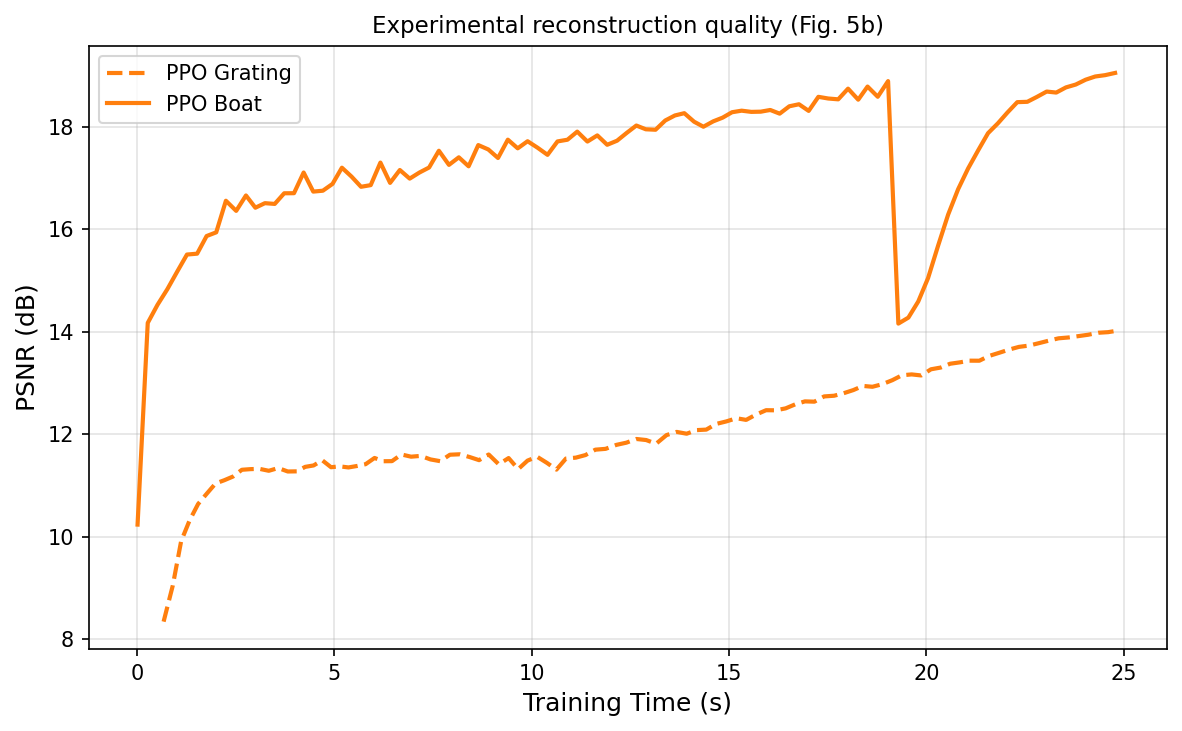
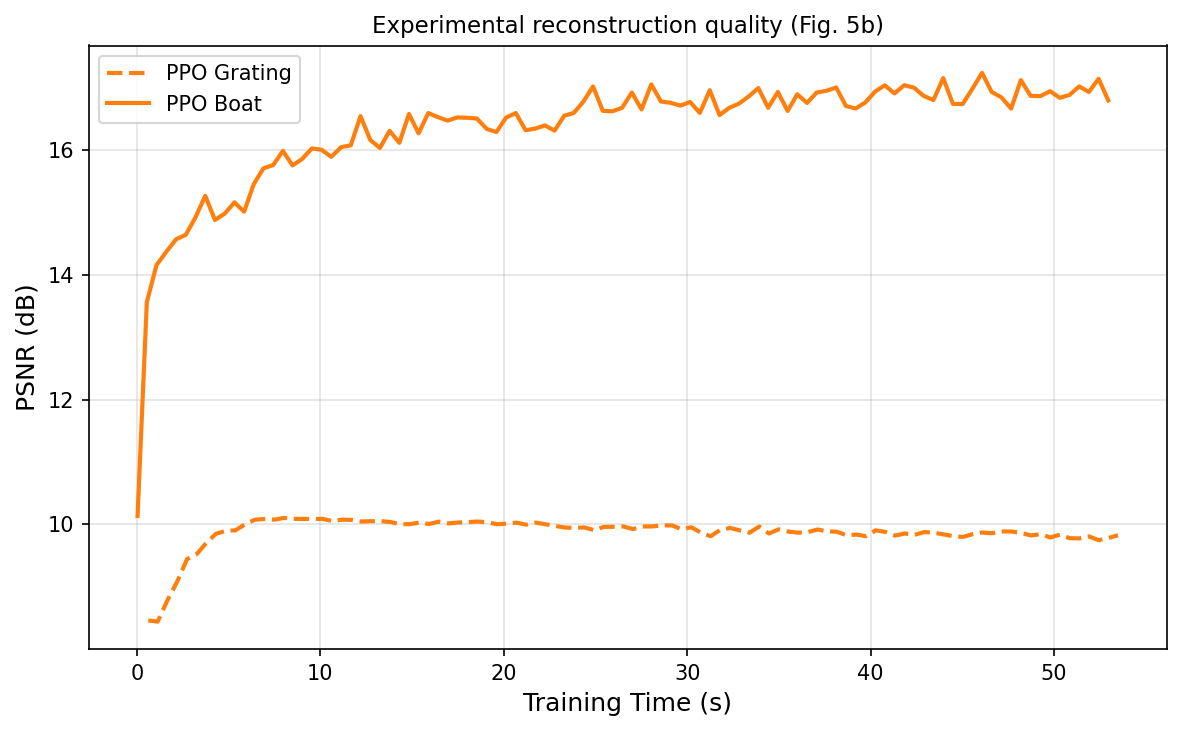
删除了sigma变化的函数，将grouping改为了1，每轮采样数调大为1024，此时训练结果显著提升

diff --git a/train_holographic_ppo.py b/train_holographic_ppo.py
@@ -337,8 +337,8 @@ def save_phase_pattern(phase, path, title):
 def parse_args():
     p = argparse.ArgumentParser(description='全息图像生成实验复现 (论文 Fig. 5)')
     p.add_argument('--n_iter',         type=int,   default=1000)
-    p.add_argument('--M',              type=int,   default=256,
-                   help='每轮采样数（论文物理：32；仿真推荐：256）')
+    p.add_argument('--M',              type=int,   default=1024,
+                   help='每轮采样数（论文物理：32；仿真推荐：1024）')
     p.add_argument('--K',              type=int,   default=4,
                    help='PPO 内循环更新次数（论文：4）')
     p.add_argument('--sigma',          type=float, default=0.3)
@@ -347,7 +347,7 @@ def parse_args():
                    help='PPO 截断参数 ε')
     p.add_argument('--sigma_final',    type=float, default=None,
                    help='sigma 退火终止值；None = 不退火（推荐设为 sigma 的 1/3，如 0.05）')
-    p.add_argument('--pixel_grouping', type=int,   default=4,
+    p.add_argument('--pixel_grouping', type=int,   default=1,
                    help='像素分组大小 g；g=1 → DOF=256')
     p.add_argument('--eval_every',     type=int,   default=20)
     p.add_argument('--save_dir',       type=str,   default='./results')
